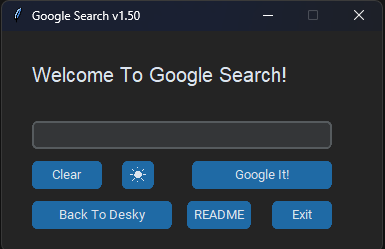
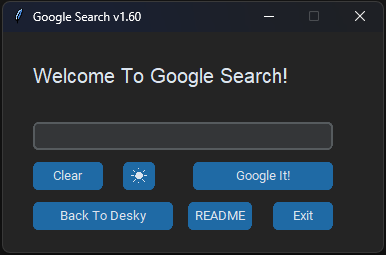
1.60 release

diff --git a/README.md b/README.md
@@ -1,5 +1,3 @@
-V1.60 will be a day or two late! I apologize but it should be out soon with the DSP fixes
-
 ![read-me-wide](assets/logos/read-me-wide.png)
 
 
